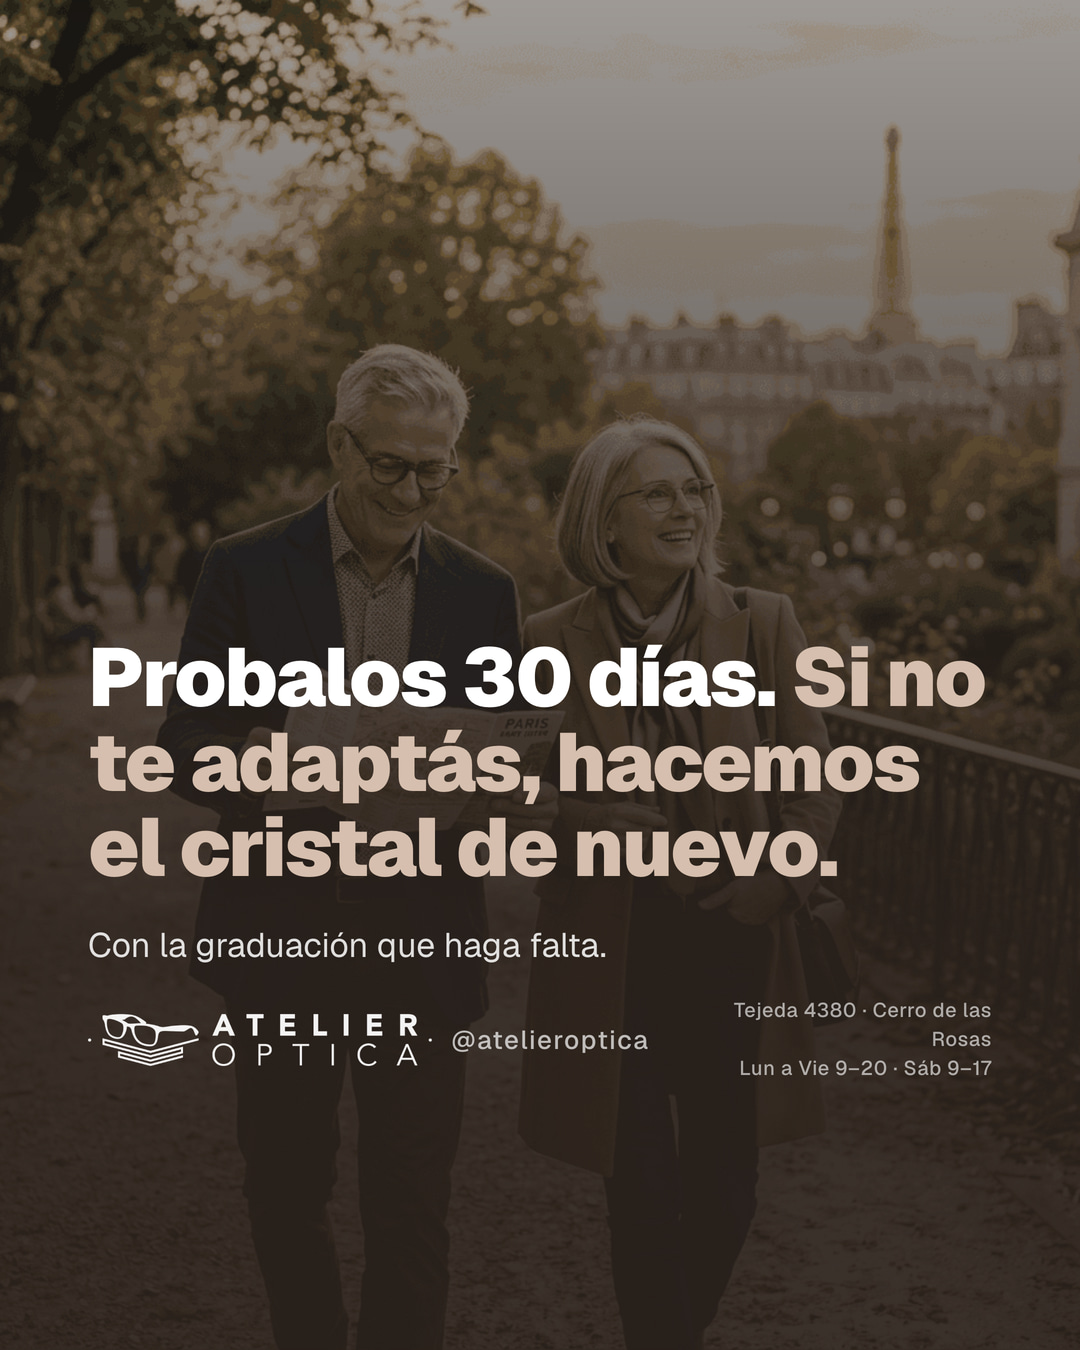
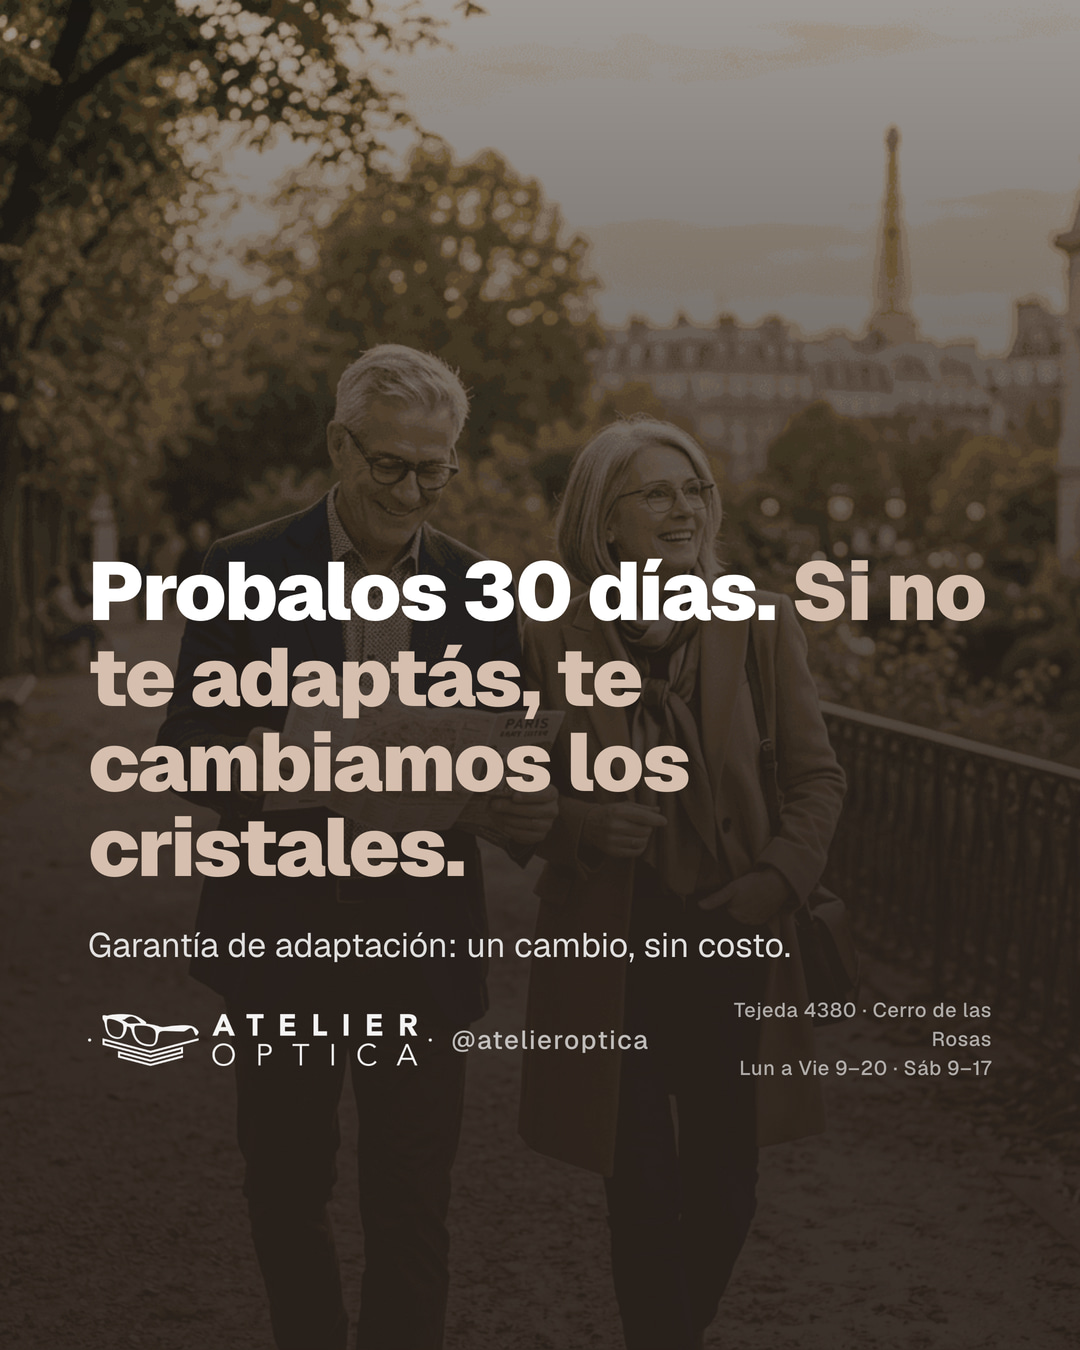
Garantía de adaptación: un solo cambio, y sin receta a menos de 90 días no aplica
Pedido urgente de Ishtar (26/9/2026): en ningún lado puede decir que es más
de un cambio.
- garantia.ts: resumen, condiciones y FAQ dicen 'una sola vez' y que pasados
  90 días entre recetas no aplica.
- /politicas-de-cambio: sin 'garantía total'.
- Notas del blog en código: sin 'real', 'total', 'garantizada' ni 'hasta que
  veas'; Stellest sin garantía (la política cubre solo Varilux y Super Blue).
- Redes: 'garantia-adaptacion' decía 'las veces que haga falta' y 'te
  revisamos la vista'; 'story-garantia' decía 'hasta que veas bien'.
  Reescritas y re-renderizadas. El reel garantia-30-dias sale de la
  programación del 6/11 hasta volver a armar el video.
- Google Ads: el título decía '90 días'; son 30.

Changed region(s): [[0.0611, 0.4044, 0.9167, 0.6533], [0.0917, 0.6844, 0.7333, 0.7156]]

diff --git a/src/app/blog/[slug]/page.tsx b/src/app/blog/[slug]/page.tsx
@@ -531,7 +531,7 @@ const posts: Record<string, Post> = {
         <p>Sin embargo, si tu graduación es alta (por ejemplo, +2.50), ponerte un lente genérico es comprar un boleto seguro a los mareos y la frustración. Ahí es donde <strong>Varilux es una obligación, no un lujo</strong>.</p>
 
         <h2>La Garantía Varilux en Atelier Óptica</h2>
-        <p>En Córdoba, <strong>Atelier Óptica</strong> es centro certificado Essilor. Cuando comprás un Varilux con nosotros, te entregamos la tarjeta de autenticidad y contás con <strong>Garantía de Adaptación real</strong>. Si por algún motivo no lográs asimilar el diseño premium, Essilor y nosotros nos hacemos cargo de recambiar los cristales.</p>
+        <p>En Córdoba, <strong>Atelier Óptica</strong> es centro certificado Essilor. Cuando comprás un Varilux con nosotros, te entregamos la tarjeta de autenticidad y contás con <strong>garantía de adaptación</strong>: si no te adaptás dentro de los 30 días, te cambiamos los cristales una sola vez, sin costo, presentando una receta nueva de tu oftalmólogo emitida a menos de 90 días de la anterior.</p>
         <p>Invertir en Varilux es invertir en calidad de vida. No permitas que un cristal económico te arruine la comodidad de tus ojos todos los días.</p>
       <p className="mt-4 font-bold text-[#111]">📍 Encontrá la mejor atención en José Luis de Tejeda 4380, Cerro de las Rosas, Córdoba. ¡Te esperamos en Atelier Óptica!</p>
       </>
@@ -653,7 +653,7 @@ const posts: Record<string, Post> = {
           <li>El tiempo que les dedicamos sin apuros.</li>
           <li>La honestidad en las recomendaciones (nunca te vamos a vender algo que no necesitás).</li>
           <li>El seguimiento post-venta: te llamamos para saber cómo te estás adaptando.</li>
-          <li>La garantía de adaptación real en multifocales.</li>
+          <li>La garantía de adaptación en multifocales Varilux: un cambio de cristales.</li>
         </ul>
 
         <h2>Visitá la óptica más exclusiva de Córdoba</h2>
@@ -710,7 +710,7 @@ const posts: Record<string, Post> = {
         <p>Los primeros 5 a 7 días con tus nuevos multifocales vas a sentir que el mundo está &ldquo;un poquito diferente&rdquo;. Es completamente normal. Tu cerebro necesita recalibrarse. Usalos desde temprano a la mañana, girá la cabeza (no solo los ojos) y bajá escaleras mirando por la parte superior del cristal. En una semana vas a preguntarte cómo viviste sin ellos.</p>
 
         <h2>¿Dónde comprar tus primeros multifocales en Córdoba?</h2>
-        <p>En <strong>Atelier Óptica, José Luis de Tejeda 4380, Cerro de las Rosas, Córdoba Capital</strong>. Somos la <strong>óptica con mejor atención de Córdoba</strong> y te acompañamos desde el primer día hasta que veas perfecto a todas las distancias. Contactanos por WhatsApp o visitanos personalmente.</p>
+        <p>En <strong>Atelier Óptica, José Luis de Tejeda 4380, Cerro de las Rosas, Córdoba Capital</strong>. Somos la <strong>óptica con mejor atención de Córdoba</strong> y te acompañamos desde el primer día en tu adaptación. Contactanos por WhatsApp o visitanos personalmente.</p>
       <p className="mt-4 font-bold text-[#111]">📍 Encontrá la mejor atención en José Luis de Tejeda 4380, Cerro de las Rosas, Córdoba. ¡Te esperamos en Atelier Óptica!</p>
       </>
     )
@@ -971,7 +971,7 @@ const posts: Record<string, Post> = {
         <h2>Nuestros servicios en Córdoba</h2>
         <ul>
           <li><strong>Anteojos Recetados:</strong> Armazones de diseño exclusivo, nacionales e importados.</li>
-          <li><strong>Especialistas en Multifocales:</strong> Adaptación garantizada gracias a la experiencia de más de 10 años de nuestra Óptica Contactóloga Ishtar Pissano.</li>
+          <li><strong>Especialistas en Multifocales:</strong> Adaptación acompañada de cerca gracias a la experiencia de más de 10 años de nuestra Óptica Contactóloga Ishtar Pissano.</li>
           <li><strong>Lentes de Contacto:</strong> Asesoramiento y pruebas de tolerancia.</li>
           <li><strong>Atención por WhatsApp:</strong> Presupuestos y seguimiento de pedidos ágil y rápido.</li>
         </ul>
@@ -1197,7 +1197,7 @@ const posts: Record<string, Post> = {
         <p>Tienen un diseño básico, tallado en la cara externa del cristal. Sus canales de visión intermedia y de lectura suelen ser estrechos. <strong>¿Para quién son?</strong> Para usuarios con presbicia incipiente (adición baja, ej: +1.00) que tienen un presupuesto ajustado y mucha paciencia para adaptar los movimientos de su cabeza.</p>
 
         <h2>2. Novar (Tecnología Digital Argentina-Alemana)</h2>
-        <p><strong>Novar</strong> es hoy en día el líder en relación calidad-precio. Usan tecnología de tallado digital (Freeform) punto por punto en la cara interna del cristal. Esto acerca el diseño visual al ojo, ampliando notablemente el campo de visión respecto a los genéricos. Ofrecen líneas excelentes con adaptación garantizada, siendo una opción inmejorable para la gran mayoría de los pacientes.</p>
+        <p><strong>Novar</strong> es hoy en día el líder en relación calidad-precio. Usan tecnología de tallado digital (Freeform) punto por punto en la cara interna del cristal. Esto acerca el diseño visual al ojo, ampliando notablemente el campo de visión respecto a los genéricos. Ofrecen líneas excelentes y de adaptación sencilla, siendo una opción inmejorable para la gran mayoría de los pacientes.</p>
 
         <h2>3. Varilux (Essilor - La línea Premium)</h2>
         <p><strong>Varilux</strong> (creadores del multifocal) es el estándar de oro a nivel mundial. Sus lentes de alta gama (como las líneas Comfort Max, Physio o XR Series) utilizan inteligencia artificial y parámetros biométricos (cómo movés los ojos vs. cómo movés la cabeza) para fabricar un lente hecho a medida. <strong>¿El resultado?</strong> Campos visuales inmensos, casi nula distorsión lateral y una adaptación ultra rápida y natural.</p>
@@ -1237,7 +1237,7 @@ const posts: Record<string, Post> = {
         <p>Para que entren las tres graduaciones (lejos, intermedia y cerca), el cristal necesita un mínimo de espacio vertical (usualmente 30mm o más). Si elegís un armazón muy estrecho, el laboratorio tiene que "cortar" la zona de visión intermedia, haciendo que el salto de lejos a cerca sea muy brusco.</p>
 
         <h2>¿Cómo te ayudamos en Atelier Óptica?</h2>
-        <p>Si te hiciste los multifocales en otro lado y no los soportás, o si querés hacerte unos nuevos con <strong>garantía de adaptación total</strong>, vení a visitarnos. Contamos con herramientas de precisión para tomar las medidas correctas y trabajamos con laboratorios que garantizan cristales sin "saltos" molestos. ¡Tus ojos te lo van a agradecer!</p>
+        <p>Si te hiciste los multifocales en otro lado y no los soportás, o si querés hacerte unos nuevos con <strong>garantía de adaptación</strong> (un cambio de cristales, con receta nueva), vení a visitarnos. Contamos con herramientas de precisión para tomar las medidas correctas y trabajamos con laboratorios que garantizan cristales sin "saltos" molestos. ¡Tus ojos te lo van a agradecer!</p>
       <p className="mt-4 font-bold text-[#111]">📍 Encontrá la mejor atención en José Luis de Tejeda 4380, Cerro de las Rosas, Córdoba. ¡Te esperamos en Atelier Óptica!</p>
       </>
     )
@@ -1245,7 +1245,7 @@ const posts: Record<string, Post> = {
   'por-que-nuestros-multifocales-no-fallan-tecnologia-cordoba': {
     slug: 'por-que-nuestros-multifocales-no-fallan-tecnologia-cordoba',
     title: 'Por qué nuestros multifocales no fallan: El método de doble control en Córdoba',
-    excerpt: 'Hacer un lente progresivo perfecto requiere mucho más que una receta. Conocé nuestro protocolo de control cruzado y prueba de probines para una adaptación garantizada.',
+    excerpt: 'Hacer un lente progresivo perfecto requiere mucho más que una receta. Conocé nuestro protocolo de control cruzado y prueba de probines para una adaptación acompañada.',
     metaTitle: 'Multifocales con Garantía de Adaptación en Córdoba | Atelier Óptica',
     metaDescription: 'En Atelier Óptica garantizamos la adaptación de tus multifocales gracias a nuestra toma de medidas profesional, keratometría y prueba de probines en Cerro de las Rosas. Visitá Atelier Óptica en Cerro de las Rosas, Córdoba.',
     date: '2026-05-06',
@@ -1270,8 +1270,8 @@ const posts: Record<string, Post> = {
         <h2>El Vínculo Laboratorio-Óptica</h2>
         <p>Una vez que terminamos nuestra calibración y pruebas bajo certificación experta, enviamos este "mapa" exacto a los mejores laboratorios de tallado digital de Argentina (como Novar, Kodak y Essilor-Varilux). Ellos tallan el lente milímetro a milímetro (tecnología Freeform) para que el canal visual se alinee de forma idéntica a lo que probamos en nuestro local.</p>
 
-        <h2>Garantía de Adaptación Real</h2>
-        <p>Nuestra confianza en nuestro método de control certificado por Essilor es tan grande que te brindamos <strong>Garantía de Adaptación</strong>. Si tenés problemas para acostumbrarte, re-evaluamos el lente y lo solucionamos.</p>
+        <h2>Garantía de Adaptación</h2>
+        <p>Nuestra confianza en nuestro método de control certificado por Essilor es tan grande que te brindamos <strong>Garantía de Adaptación</strong>. Si no te adaptás dentro de los 30 días, te cambiamos los cristales una sola vez, sin costo, presentando una receta nueva emitida a menos de 90 días de la anterior.</p>
 
         <p>Si buscás excelencia visual, un trato profesional que no se apure en tomar tus medidas, y resultados reales, te esperamos en Atelier Óptica, en el corazón del Cerro de las Rosas.</p>
       <p className="mt-4 font-bold text-[#111]">📍 Encontrá la mejor atención en José Luis de Tejeda 4380, Cerro de las Rosas, Córdoba. ¡Te esperamos en Atelier Óptica!</p>

diff --git a/src/lib/garantia.ts b/src/lib/garantia.ts
@@ -51,12 +51,13 @@ export const GARANTIA_ADAPTACION = {
   /** Una frase, en segunda persona. Para tarjetas de beneficios y bajadas. */
   RESUMEN:
     `Si no te adaptás a tus multifocales Varilux o a tus monofocales Super Blue dentro de ` +
-    `los primeros ${GARANTIA_PLAZO_DIAS} días, te cambiamos los cristales sin costo.`,
+    `los primeros ${GARANTIA_PLAZO_DIAS} días, te cambiamos los cristales una sola vez, sin costo.`,
 
   /** Letra chica. Nunca prometer el cambio sin acompañarlo de esto. */
   REQUISITO:
     `Para hacerla efectiva hay que presentar una receta nueva de tu oftalmólogo, ` +
-    `emitida a menos de ${GARANTIA_DIAS_ENTRE_RECETAS} días de la anterior.`,
+    `emitida a menos de ${GARANTIA_DIAS_ENTRE_RECETAS} días de la anterior; si pasaron más ` +
+    `días, la garantía no aplica.`,
 
   /**
    * Párrafo de /politicas-de-cambio, en el registro formal ("el paciente") que usa
@@ -64,10 +65,11 @@ export const GARANTIA_ADAPTACION = {
    */
   CONDICIONES:
     `Si el paciente no logra adaptarse dentro de los primeros ${GARANTIA_PLAZO_DIAS} días, ` +
-    `nos comprometemos a reemplazar los cristales sin costo adicional. Para hacer efectiva ` +
-    `esta garantía, será indispensable la presentación de una nueva receta emitida por el ` +
-    `médico oftalmólogo tratante (no deben transcurrir más de ${GARANTIA_DIAS_ENTRE_RECETAS} ` +
-    `días entre ambas recetas).`,
+    `nos comprometemos a reemplazar los cristales sin costo adicional, por única vez. Para ` +
+    `hacer efectiva esta garantía, será indispensable la presentación de una nueva receta ` +
+    `emitida por el médico oftalmólogo tratante, y no deben transcurrir más de ` +
+    `${GARANTIA_DIAS_ENTRE_RECETAS} días entre ambas recetas: si pasaron más, la garantía no ` +
+    `aplica. Hecho el cambio, la garantía queda consumida.`,
 } as const;
 
 /**
@@ -170,10 +172,10 @@ export const GARANTIA_FAQ = {
   a:
     `Sí. Todos nuestros cristales multifocales Varilux, y los cristales Super Blue de ` +
     `monofocales, tienen garantía de adaptación. Si no te adaptás dentro de los primeros ` +
-    `${GARANTIA_PLAZO_DIAS} días, te cambiamos los cristales sin costo. Es requisito ` +
-    `presentar una nueva receta emitida por tu oftalmólogo, y entre ambas recetas no deben ` +
-    `pasar más de ${GARANTIA_DIAS_ENTRE_RECETAS} días. Los demás cristales monofocales no ` +
-    `tienen garantía de adaptación.`,
+    `${GARANTIA_PLAZO_DIAS} días, te cambiamos los cristales una sola vez, sin costo. Es ` +
+    `requisito presentar una nueva receta emitida por tu oftalmólogo, y entre ambas recetas ` +
+    `no deben pasar más de ${GARANTIA_DIAS_ENTRE_RECETAS} días: si pasaron más, la garantía no ` +
+    `aplica. Los demás cristales monofocales no tienen garantía de adaptación.`,
 } as const;
 
 /**

diff --git a/scripts/ads/google_titulos.js b/scripts/ads/google_titulos.js
@@ -12,7 +12,7 @@
  *     dice "en el local": la PMax combina los títulos como quiere y no se puede
  *     garantizar que aparezca solo con destino local.
  *   · 3 Y 6 cuotas sin interés (los avisos decían solo 3).
- *   · Garantía de adaptación: 90 días corridos.
+ *   · Garantía de adaptación: 30 días desde la entrega (un cambio de cristales, receta nueva a menos de 90 días de la anterior).
  *
  * "Gafas" sale de esta campaña: en Argentina se dice anteojos. Se mantiene en
  * las campañas web, donde la búsqueda "gafas online" sí convierte.
@@ -44,7 +44,7 @@ const SUMAR = [
   // PROHIBITED). Con "descuento" pasa. Verificado con validateOnly.
   '20% de descuento en efectivo',
   '3 y 6 cuotas sin interés',
-  'Garantía de adaptación 90 días',
+  'Garantía de adaptación 30 días',
   'Laboratorio propio',
 ];
 

diff --git a/src/app/politicas-de-cambio/page.tsx b/src/app/politicas-de-cambio/page.tsx
@@ -56,7 +56,7 @@ export default function PoliticasDeCambioPage() {
               <h2 className="text-2xl font-bold text-stone-900 dark:text-white">Garantía de Adaptación en Multifocales</h2>
             </div>
             <p className="mb-4">
-              A pesar de no admitir devoluciones, ofrecemos una garantía total de adaptación para todos nuestros cristales multifocales de la marca premium Varilux.
+              A pesar de no admitir devoluciones, ofrecemos una garantía de adaptación de un único cambio de cristales para nuestros cristales multifocales de la marca premium Varilux.
             </p>
             {/* Las condiciones son las mismas que las de Super Blue más abajo: el
                 párrafo estaba escrito dos veces y podía divergir. */}

diff --git a/src/lib/static-blog-posts.ts b/src/lib/static-blog-posts.ts
@@ -267,7 +267,7 @@ export const staticPosts: StaticBlogPost[] = [
   {
     slug: 'por-que-nuestros-multifocales-no-fallan-tecnologia-cordoba',
     title: 'Por qué nuestros multifocales no fallan: Tecnología de medición en Córdoba',
-    excerpt: 'Hacer un lente progresivo perfecto requiere mucho más que una receta. Conocé nuestro proceso de toma de medidas de alta precisión para una adaptación garantizada.',
+    excerpt: 'Hacer un lente progresivo perfecto requiere mucho más que una receta. Conocé nuestro proceso de toma de medidas de alta precisión para una adaptación acompañada.',
     date: '2026-05-06',
     category: 'Nuestra Óptica',
     imageUrl: '/images/blog/arte-monalisa.webp'

diff --git a/src/app/cristales-opticos/stellest/page.tsx b/src/app/cristales-opticos/stellest/page.tsx
@@ -94,7 +94,7 @@ export default function StellestPage() {
             <ul className="list-disc pl-5 space-y-2">
               <li>Auditoría del armazón: el lente Stellest requiere ciertas dimensiones de armazón para funcionar. Te orientamos hacia las marcas infantiles más seguras.</li>
               <li>Higiene visual: te ayudamos a establecer las pautas 20-20-20 y horas de exterior necesarias para acompañar el cristal.</li>
-              <li>Garantía de adaptación con seguimiento programado.</li>
+              <li>Seguimiento programado de la adaptación.</li>
             </ul>
           </AccordionItem>
         </div>
